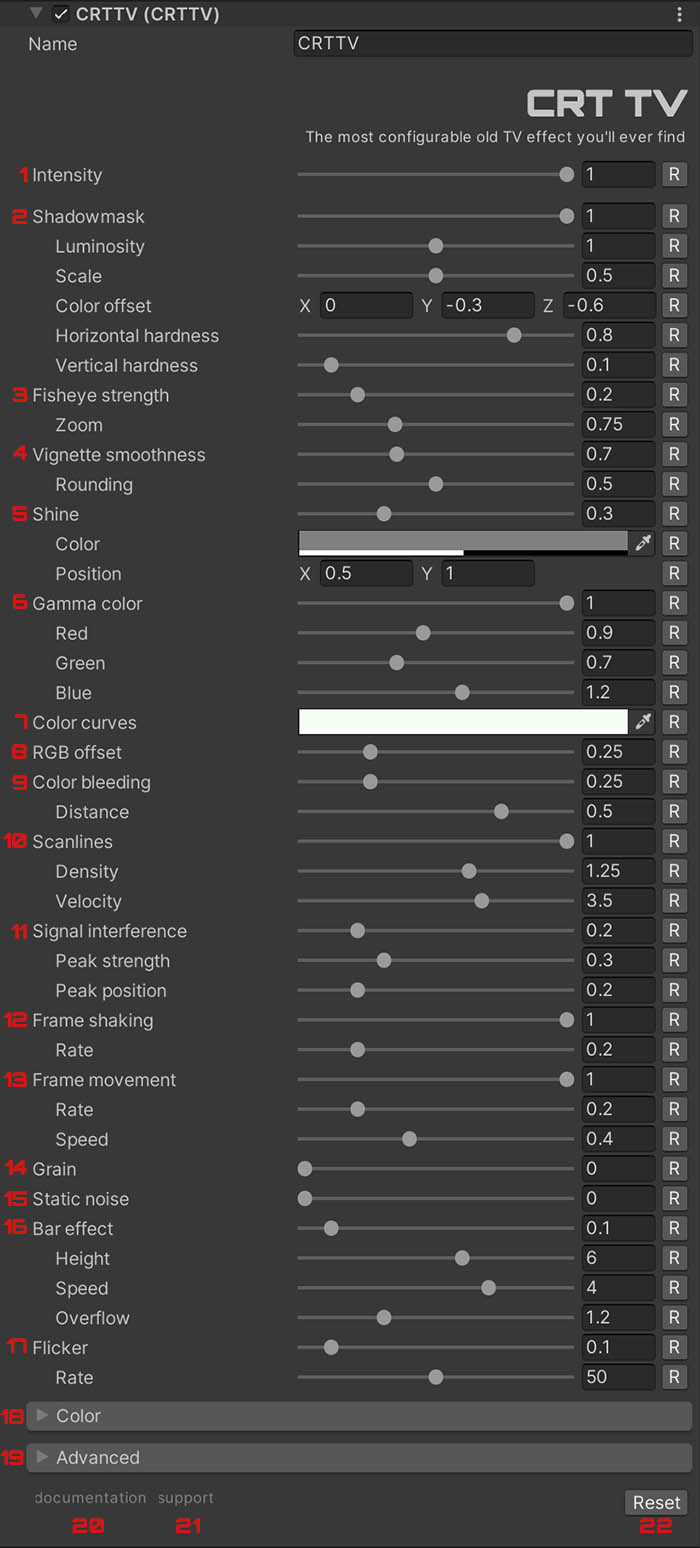
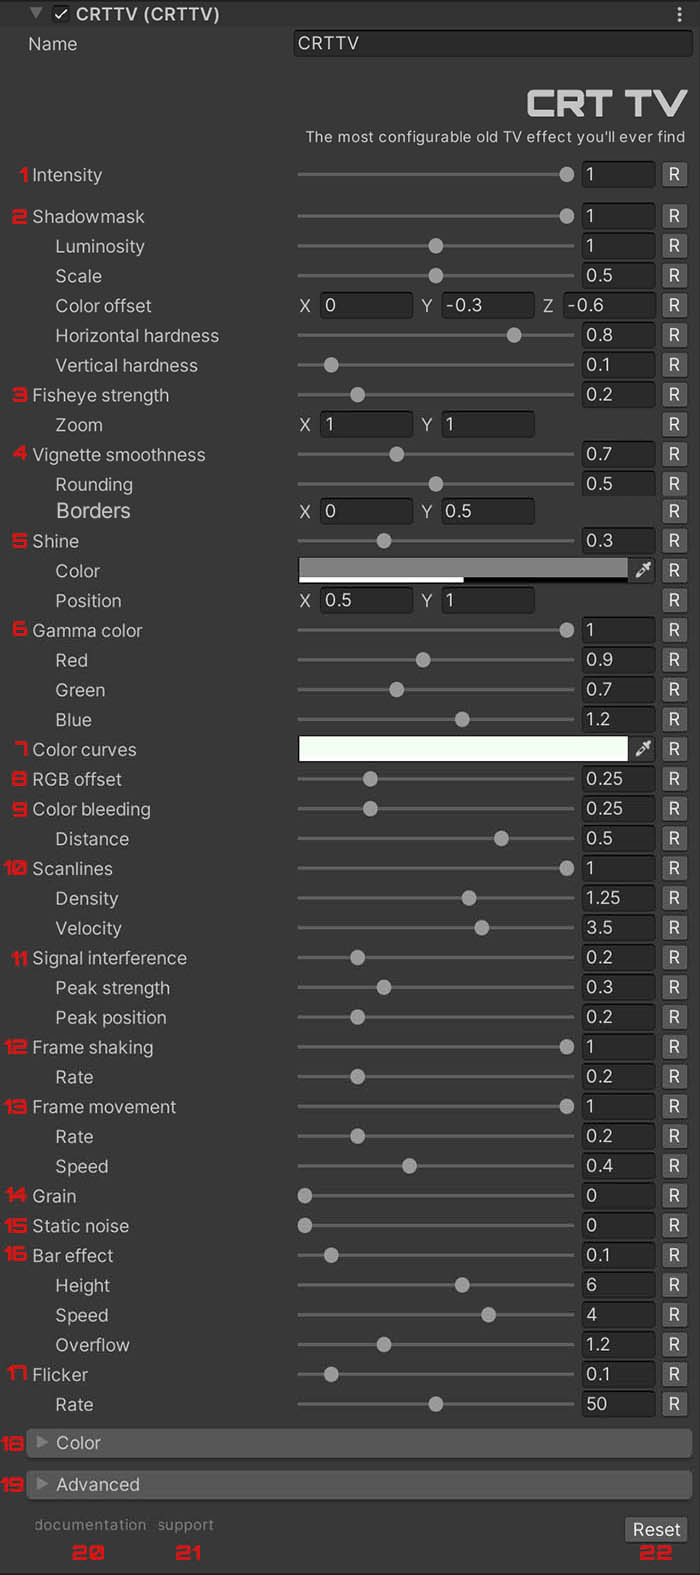
CRT TV update.

diff --git a/content/store/retro/index.md b/content/store/retro/index.md
@@ -169,11 +169,9 @@ This technique is known as '[Shadow mask](https://en.wikipedia.org/wiki/Shadow_m
 
 Although it doesn't affect the final result of the image too much, you can change the order of the red, green and blue channels of each grid cell. In '**Color offset**' you can move each channel. You can also vary the hardness of the horizontal and vertical spacing of each cell with '**Horizontal hardness**' and '**Vertical hardness**' respectively.
 
-Due to the curvature of the glass screen, the image on older televisions was distorted. In '**Fisheye**' (_3_) you can simulate this effect. Due to the geometry of the tube, the corners of the image are rounded. With '**Vignette smoothness**' (_4_) you can adjust the image deformation.
+Due to the curvature of the glass screen, the image on older televisions was distorted. In '**Fisheye**' (_3_) you can simulate this effect. Due to the geometry of the tube, the corners of the image are rounded. With '**Vignette smoothness**' (_4_) you can adjust the image deformation. If you want to adjust the borders of the screen, you can do it with '**Borders**' (one for each axis).
 
-{{< notice tip "Tip" >}}
-With '**Zoom**' you can simulate the switching on and off of the TV.
-{{< /notice >}}
+With '**Zoom**' you can adjust the screen size on each axis. By changing the values of '**Zoom**' with Tween functions, you can simulate the switching on and off of the TV.
 
 The reflection on the glass screen can be controlled with '**Shine**' (_5_).
 
